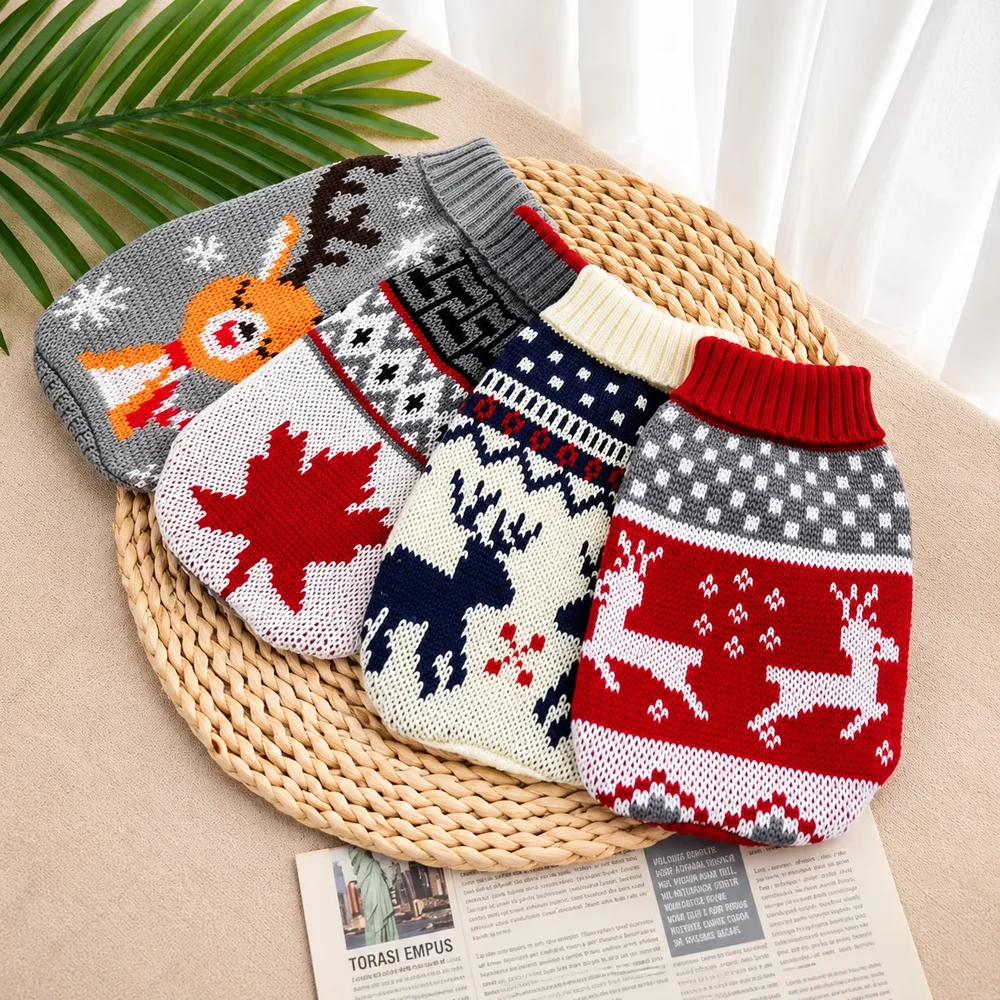
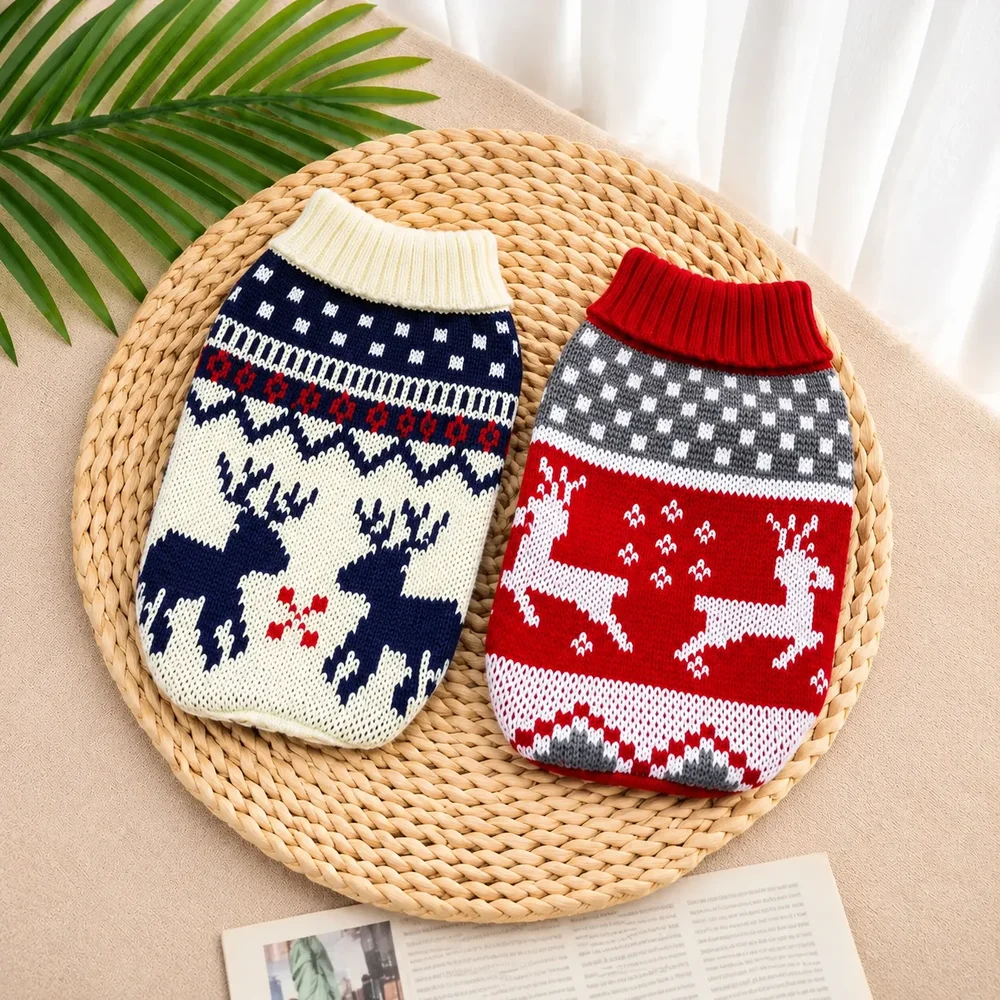
Knit sweater: blue and red photo instead of the four-sweater one

diff --git a/my-app/config/products.ts b/my-app/config/products.ts
@@ -311,7 +311,7 @@ export const otherProducts: OtherProduct[] = [
     images: [
       { src: knitFrenchie, alt: "French bulldog by the fire wearing the red fair isle Christmas sweater" },
       { src: knitCat, alt: "White cat wearing the red fair isle Christmas sweater" },
-      { src: knitRange, alt: "The knit sweaters laid out, including the red and the navy and cream designs" },
+      { src: knitRange, alt: "The blue and red knit sweaters side by side" },
       {
         src: knitSizes,
         alt: "Size chart: S 22 cm back, M 26 cm, L 32 cm, XL 35 cm, XXL 40 cm, with neck, leg spacing and weight for each",
